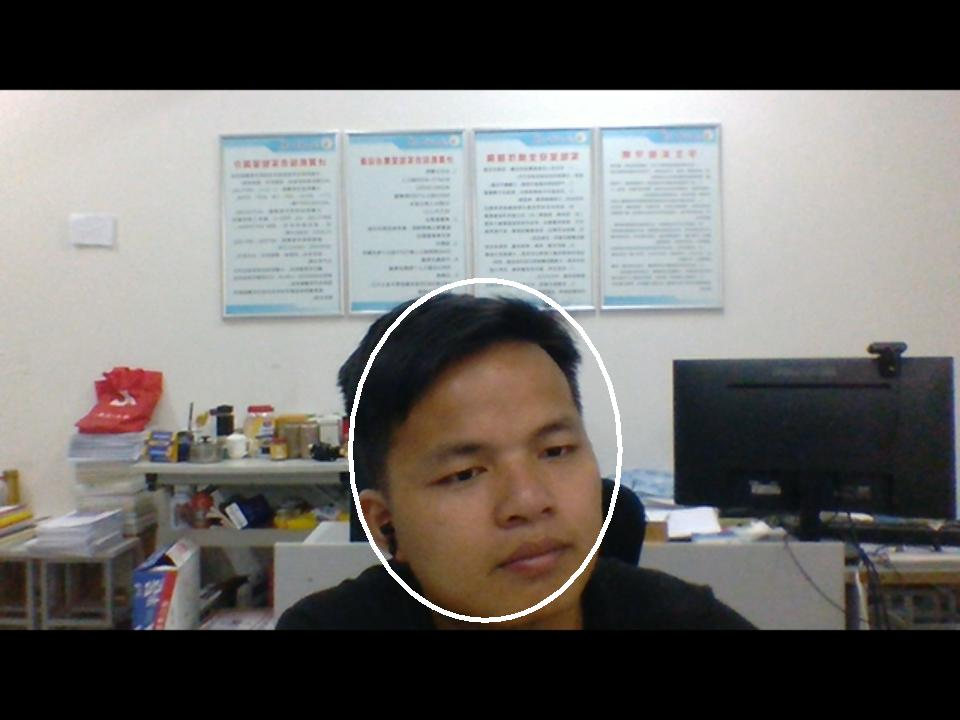
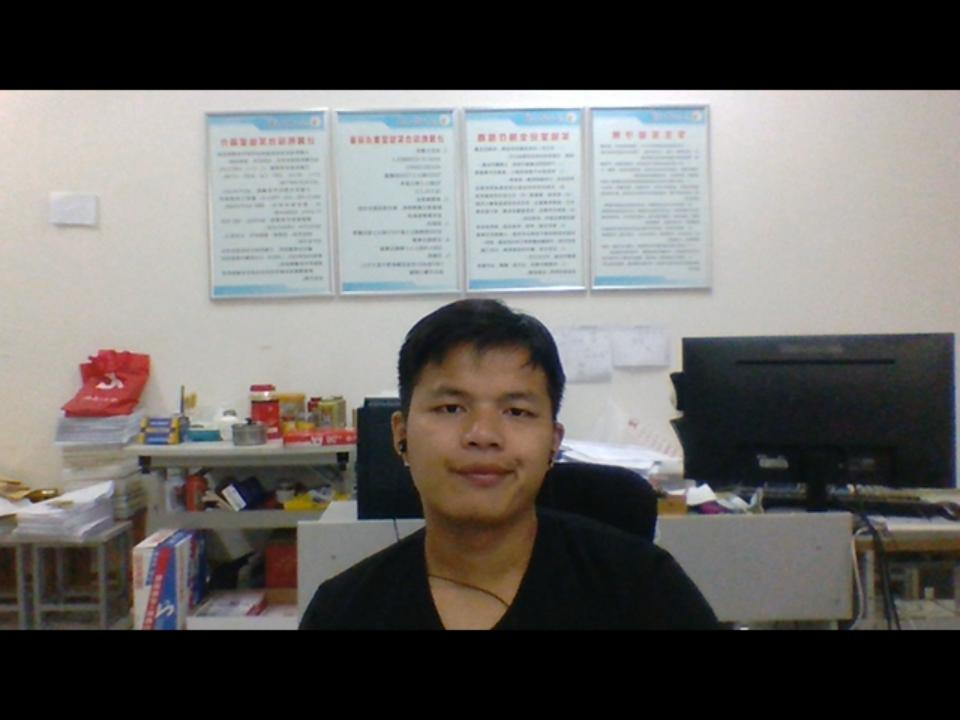
添加背景虚化

diff --git a/src/com/ffait/util/ImageBlur.java b/src/com/ffait/util/ImageBlur.java
@@ -1,0 +1,126 @@
+package com.ffait.util;
+
+import com.ffait.reid.FaceService;
+import org.opencv.core.Mat;
+import org.opencv.core.Point;
+import org.opencv.core.Size;
+import org.opencv.highgui.HighGui;
+import org.opencv.imgproc.Imgproc;
+
+import javax.imageio.ImageIO;
+import javax.swing.*;
+import java.awt.*;
+import java.awt.image.BufferedImage;
+import java.io.File;
+import java.io.IOException;
+
+/**
+ * @Auther: NF
+ * @Date: 2022/09/04/19:18
+ * @Description:
+ */
+public class ImageBlur {
+    static FaceService fs=new FaceService();
+
+    public static void blur(Mat src) {
+        //克隆，数据,大小，类型等同于输入图像
+        Mat image = src.clone();
+        Imgproc.blur(src, image, new Size(100,100),new Point(1,1));
+        HighGui.imshow("均值模糊(降噪)", image);
+        HighGui.waitKey();
+    }
+
+    public static BufferedImage gausssianBlur(Mat src) {
+        //返回一个恒等指定大小和类型矩阵,数据全部有0填充。
+        Mat image = Mat.eye(src.size(),src.type());
+        Imgproc.GaussianBlur(src, image, new Size(11,11), 7,7);
+        return fs.mat2BI(image);
+    }
+
+    //虚化图片后将人脸在画上去
+    public static BufferedImage drawFace(BufferedImage image,BufferedImage face){
+        Graphics g = image.getGraphics();
+
+        g.drawImage(face,350,190,270,340,null);
+
+        Graphics2D g2 = (Graphics2D)g;
+        g2.setStroke(new BasicStroke(5.0f));
+        g2.drawOval(350, 190, 270, 340);
+
+        return image;
+    }
+
+
+
+
+    public static void mediaBlur(Mat src) {
+        //返回一个恒等指定大小和类型矩阵,数据全部有0填充。
+        Mat image = Mat.zeros(src.size(),src.type());
+        Imgproc.medianBlur(src, image, 9);
+        HighGui.imshow("中值滤波(降噪)", image);
+        HighGui.waitKey();
+    }
+
+    public static void bilateralFilter(Mat src) {
+        //返回一个恒等指定大小和类型矩阵,数据全部有BGR分别由100填充。
+        Mat image = Mat.ones(src.size(),src.type());
+        Imgproc.bilateralFilter(src, image, 2, 200, 5);
+        HighGui.imshow("双边滤波(降噪)", image);
+        HighGui.waitKey();
+    }
+
+    public static ImageIcon imageScaled(BufferedImage image, int targetW,int targetH) throws IOException {
+        BufferedImage copy = BlackImg.deepCopy(image);
+
+        int h = image.getHeight();
+        int w = image.getWidth();
+
+        double scale=w/(double)h;
+        double targetScale = targetW/(double)targetH;
+
+        if(scale == targetScale){
+            return new ImageIcon(copy.getScaledInstance(targetW,targetH,Image.SCALE_DEFAULT));
+        }
+        //切去部分高度
+        else if(targetScale > scale){
+            int cutH = (int) ((targetScale-scale) * h)/2;
+            BufferedImage subimage = copy.getSubimage(0, cutH, w, h - cutH);
+
+            ImageIO.write(subimage,"jpg",new File("C:\\Users\\86187\\Pictures\\bj\\a.jpg"));
+
+            return new ImageIcon(subimage.getScaledInstance(targetW,targetH,Image.SCALE_DEFAULT));
+
+
+        }else if(targetScale < scale){
+
+            int cutW = (int) ((scale-targetScale) * w)/2;
+            BufferedImage subimage = copy.getSubimage( cutW,0 , w - cutW , h );
+            ImageIO.write(subimage,"jpg",new File("C:\\Users\\86187\\Pictures\\bj\\a.jpg"));
+
+            return new ImageIcon(subimage.getScaledInstance(targetW,targetH,Image.SCALE_DEFAULT));
+        }
+
+
+        return null;
+    }
+
+    public static void main(String[] args) throws IOException {
+        BufferedImage read = ImageIO.read(new File("C:\\Users\\86187\\Pictures\\bj\\0bc73f4215SrF3v.jpg"));
+
+        ImageIcon imageIcon = imageScaled(read, 1960, 1080);
+
+        JFrame jFrame = new JFrame();
+        jFrame.setSize(1960,1080);
+        jFrame.setVisible(true);
+
+        JLabel label = new JLabel();
+        label.setSize(1960,1080);
+        label.setVisible(true);
+        jFrame.add(label);
+        label.setIcon(imageIcon);
+
+
+    }
+
+}
+

diff --git a/src/com/ffait/reid/ManageFaceMainFrame.java b/src/com/ffait/reid/ManageFaceMainFrame.java
@@ -19,17 +19,12 @@ import javax.swing.JTextArea;
 import javax.swing.JTextField;
 import javax.swing.JButton;
 
+import com.ffait.util.*;
 import org.opencv.core.Core;
 import org.opencv.core.Mat;
 import org.opencv.videoio.VideoCapture;
 
 import com.ffait.manager.SerialPortManager;
-import com.ffait.util.BlackImg;
-import com.ffait.util.ByteUtils;
-import com.ffait.util.DownloadFromUrl;
-import com.ffait.util.NewLineString;
-import com.ffait.util.ParameterOperate;
-import com.ffait.util.ShowUtils;
 
 import gnu.io.PortInUseException;
 import gnu.io.SerialPort;
@@ -153,6 +148,7 @@ public class ManageFaceMainFrame {
 			Mat frame = new Mat();
 			while (flag == 0) {
 				camera.read(frame);
+				BufferedImage bufferedImage = ImageBlur.gausssianBlur(frame);
 				BufferedImage bi=fs.mat2BI(frame);
 				long currenttime=System.currentTimeMillis();
 				if(currenttime-pretime>10000) {
@@ -244,12 +240,16 @@ public class ManageFaceMainFrame {
 				}
 				showImg = BlackImg.deepCopy(bi);
 
-				BlackImg.drawFace(showImg);
+				/*BlackImg.drawFace(showImg);
 
 				cameralable.setIcon(new ImageIcon(showImg));
 
 				BlackImg.drawFace(bi);
-				cameralable.setIcon(new ImageIcon(bi));
+				cameralable.setIcon(new ImageIcon(bi));*/
+
+				ImageBlur.drawFace(bufferedImage,showImg.getSubimage(350,190,270,340));
+				cameralable.setIcon(new ImageIcon(bufferedImage));
+
 			}
 		}
 	}
